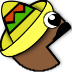
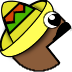
new sprites for taco and cactus.

diff --git a/core/src/com/kmbapps/tacoman/Helpers/AssetLoader.java b/core/src/com/kmbapps/tacoman/Helpers/AssetLoader.java
@@ -56,11 +56,11 @@ public class AssetLoader {
 		tacoTexture = new Texture(Gdx.files.internal("Taco.png"), true);
 		tacoTexture.setFilter(TextureFilter.MipMapLinearLinear, TextureFilter.Linear);
 
-		taco = new TextureRegion(tacoTexture, 9, 5, TacoMan.GRID_W, TacoMan.GRID_H/2);
+		taco = new TextureRegion(tacoTexture, 0, 0, TacoMan.NEW_GRID_W, TacoMan.NEW_GRID_H);
 
 		walls = new Texture(Gdx.files.internal("Wall.png"), true);
 		walls.setFilter(TextureFilter.MipMapLinearLinear, TextureFilter.Linear);
-		wall = new TextureRegion(walls, 9, 9, TacoMan.GRID_W, TacoMan.GRID_H);
+		wall = new TextureRegion(walls, 0, 0, TacoMan.NEW_GRID_W, TacoMan.NEW_GRID_H);
 
 		tacoManTextureR1 = new Texture(Gdx.files.internal("TacoMan.png"), true);
 		tacoManTextureR1.setFilter(TextureFilter.MipMapLinearLinear, TextureFilter.Linear);

diff --git a/core/src/com/kmbapps/tacoman/GameWorld/GameRenderer.java b/core/src/com/kmbapps/tacoman/GameWorld/GameRenderer.java
@@ -259,9 +259,9 @@ public class GameRenderer {
 				Consumable c = grid.getConsumable();
 				if (c != null){
 					if (c.getType() == Consumable.TYPE.Taco){
-						spriteBatch.draw(AssetLoader.taco, grid.getX() + (tileWidth - c.getWidth())/2 + world.getXOffs(), 
-								grid.getY() + (tileHeight - c.getHeight())/2 + yGridOffset - world.getYOffs(),
-								c.getWidth(), c.getHeight());
+						spriteBatch.draw(AssetLoader.taco, grid.getX() + world.getXOffs(),
+								grid.getY() + yGridOffset - world.getYOffs(),
+								tileWidth, tileHeight);
 					}
 					else if (c.getType() == Consumable.TYPE.GreenCard){
 						AssetLoader.greenCard.setBounds(grid.getX() + world.getXOffs(), grid.getY() + yGridOffset - world.getYOffs(), tileWidth, tileHeight);

diff --git a/desktop/src/com/kmbapps/tacoman/desktop/DesktopLauncher.java b/desktop/src/com/kmbapps/tacoman/desktop/DesktopLauncher.java
@@ -9,8 +9,8 @@ public class DesktopLauncher {
 	public static void main(String[] args) {
 		LwjglApplicationConfiguration cfg = new LwjglApplicationConfiguration();
 		cfg.title = "MexMan";
-		cfg.width = 1080/2;
-		cfg.height = 1920/2;
+		cfg.width = 1440/2;
+		cfg.height = 2560/2;
 		cfg.resizable = false;
 
 		new LwjglApplication(new TacoMan(), cfg);
